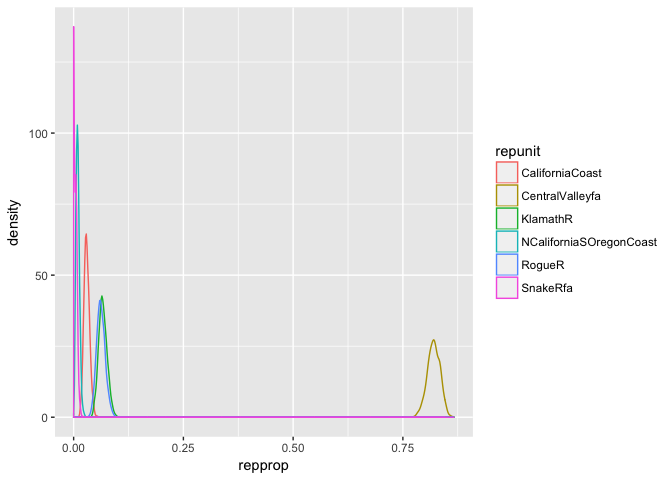
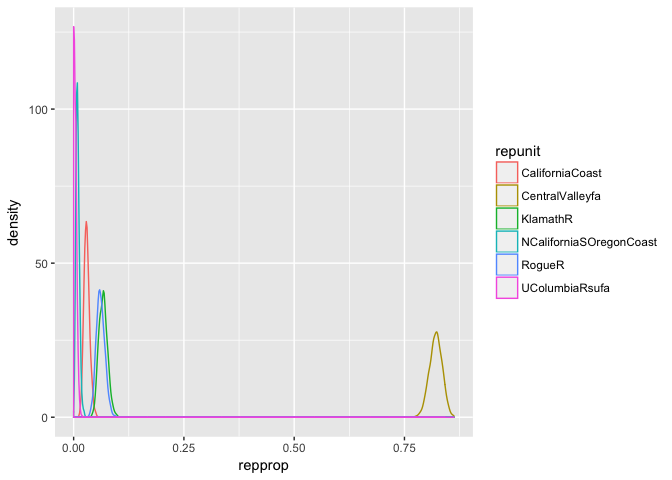
Knit the README

diff --git a/README.md b/README.md
@@ -1,9 +1,10 @@
 rubias --- genetic stock identification (GSI) in the tidyverse
 ==============================================================
 ================
-24 January, 2018
+21 February, 2018
 
 -   [Input Data](#input-data)
+    -   [How about haploid markers?](#how-about-haploid-markers)
     -   [An example reference data file](#an-example-reference-data-file)
     -   [An example mixture data file](#an-example-mixture-data-file)
 -   [Performing a Genetic Mixture Analysis](#performing-a-genetic-mixture-analysis)
@@ -24,8 +25,11 @@ rubias --- genetic stock identification (GSI) in the tidyverse
 -   [References](#references)
 
 <!-- README.md is generated from README.Rmd. Please edit that file -->
-[![DOI](https://zenodo.org/badge/63456523.svg)](https://zenodo.org/badge/latestdoi/63456523) [![Project Status: Active – The project has reached a stable, usable state and is being actively developed.](http://www.repostatus.org/badges/latest/active.svg)](http://www.repostatus.org/#active) [![CRAN\_Status\_Badge](http://www.r-pkg.org/badges/version/rubias)](https://cran.r-project.org/package=rubias)
-
+<!--
+[![DOI](https://zenodo.org/badge/63456523.svg)](https://zenodo.org/badge/latestdoi/63456523)
+[![Project Status: Active – The project has reached a stable, usable state and is being actively developed.](http://www.repostatus.org/badges/latest/active.svg)](http://www.repostatus.org/#active)
+[![CRAN_Status_Badge](http://www.r-pkg.org/badges/version/rubias)](https://cran.r-project.org/package=rubias)
+-->
 This is an R package for performing genetic stock identification (GSI) and associated tasks. Additionally, it includes a method designed to diagnose and correct a bias recently documented in genetic stock identification. The bias occurs when mixture proportion estimates are desired for groups of populations (reporting units) and the number of populations within each reporting unit are uneven.
 
 In order to run C++ implementations of MCMC, rubias requires the package Rcpp, which in turn requires an Rtools installation (if you are on Windows) or XCode (if you are on a Mac). After cloning into the repository with the above dependencies installed, build & reload the package to view further documentation.
@@ -52,6 +56,13 @@ The functions for conducting genetic mixture analysis and for doing simulation a
 -   The file can have any number of other meta data columns; however, *they must all occur in the data frame **before** the columns of genetic data*.
 -   When you pass a data frame into any of these functions, you have to tell it which column the genetic data starts in, and it is assumed that all the columns after that one contain genetic data.
 -   If you are doing a mixture analysis, the data frame of mixture fish and of the reference fish must have the same column structure, i.e., they must have exactly the same number of columns with exactly the same column names, in the same order and of the same type.
+
+How about haploid markers?
+--------------------------
+
+At the request of the good folks at ADFG, I introduced a few hacks to allow the input to include markers that are haploid (for example mtDNA haplotypes). To denote a marker as haploid you *still give it two columns of data* in your data frame, but the second column of the haploid marker must be entirely NAs. When `rubias` is processing the data and it sees this, it assumes that the marker is haploid and it treats it appropriately.
+
+Note that if you have a diploid marker it typically does not make sense to mark one of the gene copies as missing and the other as non-missing. Accordingly, if you have a diploid marker that records just one of the gene copies as missing in any individual, it is going to throw an error. Likewise, if your haploid marker does not have every single individual with and NA at the second gene copy, then it's also going to throw an error.
 
 An example reference data file
 ------------------------------
@@ -101,20 +112,20 @@ This is done with the `infer_mixture` function. In the example data `chinook_mix
 mix_est <- infer_mixture(reference = chinook, 
                          mixture = chinook_mix, 
                          gen_start_col = 5)
-#> Collating data; compiling reference allele frequencies, etc.   time: 2.40 seconds
-#> Computing reference locus specific means and variances for computing mixture z-scores   time: 0.29 seconds
+#> Collating data; compiling reference allele frequencies, etc.   time: 2.32 seconds
+#> Computing reference locus specific means and variances for computing mixture z-scores   time: 0.40 seconds
 #> Working on mixture collection: rec2 with 772 individuals
 #>   calculating log-likelihoods of the mixture individuals.   time: 0.12 seconds
-#>   performing 100 burn-in and 2000 more sweeps of method "MCMC"   time: 0.63 seconds
-#>   tidying output into a tibble.   time: 0.14 seconds
+#>   performing 100 burn-in and 2000 more sweeps of method "MCMC"   time: 0.68 seconds
+#>   tidying output into a tibble.   time: 0.10 seconds
 #> Working on mixture collection: rec1 with 743 individuals
 #>   calculating log-likelihoods of the mixture individuals.   time: 0.11 seconds
 #>   performing 100 burn-in and 2000 more sweeps of method "MCMC"   time: 0.62 seconds
-#>   tidying output into a tibble.   time: 0.16 seconds
+#>   tidying output into a tibble.   time: 0.14 seconds
 #> Working on mixture collection: rec3 with 741 individuals
-#>   calculating log-likelihoods of the mixture individuals.   time: 0.12 seconds
-#>   performing 100 burn-in and 2000 more sweeps of method "MCMC"   time: 0.60 seconds
-#>   tidying output into a tibble.   time: 0.12 seconds
+#>   calculating log-likelihoods of the mixture individuals.   time: 0.11 seconds
+#>   performing 100 burn-in and 2000 more sweeps of method "MCMC"   time: 0.62 seconds
+#>   tidying output into a tibble.   time: 0.09 seconds
 ```
 
 The result comes back as a list of four tidy data frames:
@@ -132,25 +143,25 @@ lapply(mix_est, head)
 #> # A tibble: 6 x 4
 #>   mixture_collection repunit         collection                  pi
 #>   <chr>              <chr>           <chr>                    <dbl>
-#> 1 rec2               CentralValleyfa Feather_H_sp         0.0790   
-#> 2 rec2               CentralValleysp Butte_Cr_Sp          0.0000727
-#> 3 rec2               CentralValleysp Mill_Cr_sp           0.0000782
-#> 4 rec2               CentralValleysp Deer_Cr_sp           0.0000452
-#> 5 rec2               CentralValleysp UpperSacramento_R_sp 0.000406 
-#> 6 rec2               CentralValleyfa Feather_H_fa         0.151    
+#> 1 rec2               CentralValleyfa Feather_H_sp         0.0755   
+#> 2 rec2               CentralValleysp Butte_Cr_Sp          0.0000294
+#> 3 rec2               CentralValleysp Mill_Cr_sp           0.0000757
+#> 4 rec2               CentralValleysp Deer_Cr_sp           0.0000477
+#> 5 rec2               CentralValleysp UpperSacramento_R_sp 0.000394 
+#> 6 rec2               CentralValleyfa Feather_H_fa         0.158    
 #> 
 #> $indiv_posteriors
 #> # A tibble: 6 x 10
 #>   mixture_collecti… indiv  repunit  collection         PofZ log_likelihood
 #>   <chr>             <chr>  <chr>    <chr>             <dbl>          <dbl>
-#> 1 rec2              T1247… Central… Feather_H…     1.84e⁻²⁸           -137
-#> 2 rec2              T1247… Central… Feather_H…     1.01e⁻²⁷           -136
-#> 3 rec2              T1247… Central… Butte_Cr_…     1.57e⁻²⁴           -130
-#> 4 rec2              T1247… Central… Mill_Cr_fa     2.65e⁻³⁰           -135
-#> 5 rec2              T1247… Central… Deer_Cr_fa     3.33e⁻²⁸           -134
+#> 1 rec2              T1247… Central… Feather_H…     1.72e⁻²⁸           -137
+#> 2 rec2              T1247… Central… Feather_H…     1.04e⁻²⁷           -136
+#> 3 rec2              T1247… Central… Butte_Cr_…     1.54e⁻²⁴           -130
+#> 4 rec2              T1247… Central… Mill_Cr_fa     5.02e⁻²⁹           -135
+#> 5 rec2              T1247… Central… Deer_Cr_fa     2.38e⁻²⁸           -134
 #> 6 rec2              T1247… Central… Mokelumne…     1.83e⁻²⁷           -134
-#> # ... with 4 more variables: z_score <dbl>, n_non_miss_loci <dbl>,
-#> #   n_miss_loci <dbl>, missing_loci <list>
+#> # ... with 4 more variables: z_score <dbl>, n_non_miss_loci <int>,
+#> #   n_miss_loci <int>, missing_loci <list>
 #> 
 #> $mix_prop_traces
 #> # A tibble: 6 x 5
@@ -232,14 +243,14 @@ top6_cis <- trace_subset %>%
 
 top6_cis
 #> # A tibble: 6 x 3
-#>   repunit                                                      loCI   hiCI
-#>   <chr>                                                       <dbl>  <dbl>
-#> 1 CaliforniaCoast                                          1.85e⁻ ² 0.0433
-#> 2 CentralValleyfa                                          7.91e⁻ ¹ 0.847 
-#> 3 KlamathR                                                 4.86e⁻ ² 0.0869
-#> 4 NCaliforniaSOregonCoast                                  3.16e⁻ ³ 0.0177
-#> 5 RogueR                                                   4.40e⁻ ² 0.0829
-#> 6 SnakeRfa                                                 6.40e⁻⁹⁴ 0.0122
+#>   repunit                                       loCI   hiCI
+#>   <chr>                                        <dbl>  <dbl>
+#> 1 CaliforniaCoast         0.0186                     0.0437
+#> 2 CentralValleyfa         0.793                      0.848 
+#> 3 KlamathR                0.0496                     0.0874
+#> 4 NCaliforniaSOregonCoast 0.00305                    0.0178
+#> 5 RogueR                  0.0431                     0.0813
+#> 6 UColumbiaRsufa          0.000000000000000000000853 0.0114
 ```
 
 Assessing whether individuals are not from any of the reference populations
@@ -294,7 +305,7 @@ sa_chinook <- self_assign(reference = chinook, gen_start_col = 5)
 #> 
 #> 69 Collections: Feather_H_sp, Butte_Cr_Sp, Mill_Cr_sp, Deer_Cr_sp, UpperSacramento_R_sp, Feather_H_fa, Butte_Cr_fa, Mill_Cr_fa, Deer_Cr_fa, Mokelumne_R_fa, Battle_Cr, Sacramento_R_lf, Sacramento_H, Eel_R, Russian_R, Klamath_IGH_fa, Trinity_H_sp, Smith_R, Chetco_R, Cole_Rivers_H, Applegate_Cr, Coquille_R, Umpqua_sp, Nestucca_H, Siuslaw_R, Alsea_R, Nehalem_R, Siletz_R, N_Santiam_H, McKenzie_H, L_Deschutes_R, Cowlitz_H_fa, Cowlitz_H_sp, Kalama_H_sp, Spring_Cr_H, Hanford_Reach, PriestRapids_H, Wells_H, Wenatchee_R, CleElum, Lyons_Ferry_H, Rapid_R_H, McCall_H, Kendall_H_sp, Forks_Cr_H, Soos_H, Marblemount_H_sp, QuinaltLake_f, Harris_R, Birkenhead_H, Spius_H, Big_Qual_H, Robertson_H, Morice_R, Kitwanga_R, L_Kalum_R, LPW_Unuk_R, Goat_Cr, Karluk_R, LittleTatsamenie, Tahini_R, Situk_R, Sinona_Ck, Montana_Ck, George_R, Kanektok_R, Togiak_R, Kantishna_R, California_Coho
 #> 
-#> 4.1752522234648% of allelic data identified as missing
+#> 4.18% of allelic data identified as missing
 ```
 
 Now, you can look at the self assignment results:
@@ -315,8 +326,8 @@ head(sa_chinook, n = 100)
 #>  9 Feather_H_… Feather_H_… CentralVal… Battle_Cr          CentralValleyfa 
 #> 10 Feather_H_… Feather_H_… CentralVal… Mokelumne_R_fa     CentralValleyfa 
 #> # ... with 90 more rows, and 6 more variables: scaled_likelihood <dbl>,
-#> #   log_likelihood <dbl>, z_score <dbl>, n_non_miss_loci <dbl>,
-#> #   n_miss_loci <dbl>, missing_loci <list>
+#> #   log_likelihood <dbl>, z_score <dbl>, n_non_miss_loci <int>,
+#> #   n_miss_loci <int>, missing_loci <list>
 ```
 
 The `log_likelihood` is the log probability of the fish's genotype given it is from the `inferred_collection` computed using leave-one-out. The `scaled_likelihood` is the posterior prob of assigning the fish to the `inferred_collection` given an equal prior on every collection in the reference. Other columns are as in the output for `infer_mixture()`. Note that the `z_score` computed here can be used to assess the distribution of the `z_score` statistic for fish from known, reference populations. This can be used to compare to values obtained in mixed fisheries.
@@ -422,19 +433,19 @@ top6
 #> # Groups:   mixture_collection [1]
 #>   mixture_collection repunit                 repprop
 #>   <chr>              <chr>                     <dbl>
-#> 1 rec1               CentralValleyfa         0.820  
-#> 2 rec1               KlamathR                0.0668 
-#> 3 rec1               RogueR                  0.0621 
+#> 1 rec1               CentralValleyfa         0.821  
+#> 2 rec1               KlamathR                0.0670 
+#> 3 rec1               RogueR                  0.0611 
 #> 4 rec1               CaliforniaCoast         0.0298 
-#> 5 rec1               NCaliforniaSOregonCoast 0.00935
-#> 6 rec1               SnakeRfa                0.00369
+#> 5 rec1               NCaliforniaSOregonCoast 0.00918
+#> 6 rec1               UColumbiaRsufa          0.00357
 ```
 
-We could, if we put those `repprop` values into a `ppn` column, simulate mixtures with exactly those proportions. Or if we wanted to simulate exact numbers of fish in a sample of 346 fish, we could get those values like this:
+We could, if we put those `repprop` values into a `ppn` column, simulate mixtures with exactly those proportions. Or if we wanted to simulate exact numbers of fish in a sample of 345 fish, we could get those values like this:
 
 ``` r
 round(top6$repprop * 350)
-#> [1] 287  23  22  10   3   1
+#> [1] 287  23  21  10   3   1
 ```
 
 and then put them in a `cnts` column.
@@ -451,12 +462,12 @@ arep
 #> # A tibble: 6 x 2
 #>   repunit                 dirichlet
 #>   <chr>                       <dbl>
-#> 1 CentralValleyfa            8.20  
-#> 2 KlamathR                   0.668 
-#> 3 RogueR                     0.621 
+#> 1 CentralValleyfa            8.21  
+#> 2 KlamathR                   0.670 
+#> 3 RogueR                     0.611 
 #> 4 CaliforniaCoast            0.298 
-#> 5 NCaliforniaSOregonCoast    0.0935
-#> 6 SnakeRfa                   0.0369
+#> 5 NCaliforniaSOregonCoast    0.0918
+#> 6 UColumbiaRsufa             0.0357
 ```
 
 Let's do some simulations with those repunit parameters. By default, if we don't specify anything extra for the *collections*, they get dirichlet parameters of 1.5.
@@ -644,12 +655,12 @@ arep
 #> # A tibble: 6 x 2
 #>   repunit                 dirichlet
 #>   <chr>                       <dbl>
-#> 1 CentralValleyfa            8.20  
-#> 2 KlamathR                   0.668 
-#> 3 RogueR                     0.621 
+#> 1 CentralValleyfa            8.21  
+#> 2 KlamathR                   0.670 
+#> 3 RogueR                     0.611 
 #> 4 CaliforniaCoast            0.298 
-#> 5 NCaliforniaSOregonCoast    0.0935
-#> 6 SnakeRfa                   0.0369
+#> 5 NCaliforniaSOregonCoast    0.0918
+#> 6 UColumbiaRsufa             0.0357
 ```
 
 But, now, let's say that within reporting unit we want specific weights for different collections. Then we could specify those, for example, like this:
@@ -689,27 +700,30 @@ chin_sims_sub_ppn %>%
          fract_within = mean_pi / repunit_mean_pi) %>%
   mutate(fract_within = ifelse(fract_within < 1e-06, 0, fract_within))  %>% # anything less than 1 in a million gets called 0
   filter(repunit_mean_pi > 0.0)
-#> # A tibble: 17 x 5
+#> # A tibble: 20 x 5
 #> # Groups:   repunit [6]
 #>    repunit                 collection mean_pi repunit_mean_pi fract_within
 #>    <chr>                   <chr>        <dbl>           <dbl>        <dbl>
-#>  1 CaliforniaCoast         Eel_R      3.41e⁻³          0.0341        0.100
-#>  2 CaliforniaCoast         Russian_R  3.07e⁻²          0.0341        0.900
-#>  3 CentralValleyfa         Battle_Cr  8.29e⁻⁸          0.829         0    
-#>  4 CentralValleyfa         Butte_Cr_… 5.80e⁻¹          0.829         0.700
-#>  5 CentralValleyfa         Deer_Cr_fa 8.29e⁻⁸          0.829         0    
-#>  6 CentralValleyfa         Feather_H… 8.29e⁻⁸          0.829         0    
-#>  7 CentralValleyfa         Feather_H… 2.49e⁻¹          0.829         0.300
-#>  8 CentralValleyfa         Mill_Cr_fa 8.29e⁻⁸          0.829         0    
-#>  9 CentralValleyfa         Mokelumne… 8.29e⁻⁸          0.829         0    
-#> 10 CentralValleyfa         Sacrament… 8.29e⁻⁸          0.829         0    
-#> 11 KlamathR                Klamath_I… 2.84e⁻²          0.0568        0.500
-#> 12 KlamathR                Trinity_H… 2.84e⁻²          0.0568        0.500
-#> 13 NCaliforniaSOregonCoast Chetco_R   5.62e⁻³          0.0112        0.500
-#> 14 NCaliforniaSOregonCoast Smith_R    5.62e⁻³          0.0112        0.500
-#> 15 RogueR                  Applegate… 2.94e⁻²          0.0587        0.500
-#> 16 RogueR                  Cole_Rive… 2.94e⁻²          0.0587        0.500
-#> 17 SnakeRfa                Lyons_Fer… 1.04e⁻²          0.0104        1.00
+#>  1 CaliforniaCoast         Eel_R      3.60e⁻³          0.0360        0.100
+#>  2 CaliforniaCoast         Russian_R  3.24e⁻²          0.0360        0.900
+#>  3 CentralValleyfa         Battle_Cr  8.28e⁻⁸          0.828         0    
+#>  4 CentralValleyfa         Butte_Cr_… 5.80e⁻¹          0.828         0.700
+#>  5 CentralValleyfa         Deer_Cr_fa 8.28e⁻⁸          0.828         0    
+#>  6 CentralValleyfa         Feather_H… 8.28e⁻⁸          0.828         0    
+#>  7 CentralValleyfa         Feather_H… 2.48e⁻¹          0.828         0.300
+#>  8 CentralValleyfa         Mill_Cr_fa 8.28e⁻⁸          0.828         0    
+#>  9 CentralValleyfa         Mokelumne… 8.28e⁻⁸          0.828         0    
+#> 10 CentralValleyfa         Sacrament… 8.28e⁻⁸          0.828         0    
+#> 11 KlamathR                Klamath_I… 3.04e⁻²          0.0607        0.500
+#> 12 KlamathR                Trinity_H… 3.04e⁻²          0.0607        0.500
+#> 13 NCaliforniaSOregonCoast Chetco_R   5.43e⁻³          0.0109        0.500
+#> 14 NCaliforniaSOregonCoast Smith_R    5.43e⁻³          0.0109        0.500
+#> 15 RogueR                  Applegate… 2.70e⁻²          0.0540        0.500
+#> 16 RogueR                  Cole_Rive… 2.70e⁻²          0.0540        0.500
+#> 17 UColumbiaRsufa          Hanford_R… 2.56e⁻³          0.0102        0.250
+#> 18 UColumbiaRsufa          PriestRap… 2.56e⁻³          0.0102        0.250
+#> 19 UColumbiaRsufa          Wells_H    2.56e⁻³          0.0102        0.250
+#> 20 UColumbiaRsufa          Wenatchee… 2.56e⁻³          0.0102        0.250
 ```
 
 Multiple simulation scenarios and "100% Simulations"
@@ -721,7 +735,7 @@ In the fisheries world, "100% simulations" have been a staple. In these simulati
 arep$repunit
 #> [1] "CentralValleyfa"         "KlamathR"               
 #> [3] "RogueR"                  "CaliforniaCoast"        
-#> [5] "NCaliforniaSOregonCoast" "SnakeRfa"
+#> [5] "NCaliforniaSOregonCoast" "UColumbiaRsufa"
 ```
 
 We will let the collections within them just be drawn from a dirichlet distribution with parameter 10 (so, pretty close to equal proportions).
@@ -772,7 +786,7 @@ repu_hundy_results <- assess_reference_loo(reference = chinook,
 #> Doing LOO simulations rep 3 of 5
 #> Doing LOO simulations rep 4 of 5
 #> Doing LOO simulations rep 5 of 5
-#> ++++ Starting in on repunit_scenario All-SnakeRfa with collection scenario 1 ++++
+#> ++++ Starting in on repunit_scenario All-UColumbiaRsufa with collection scenario 1 ++++
 #> Doing LOO simulations rep 1 of 5
 #> Doing LOO simulations rep 2 of 5
 #> Doing LOO simulations rep 3 of 5
